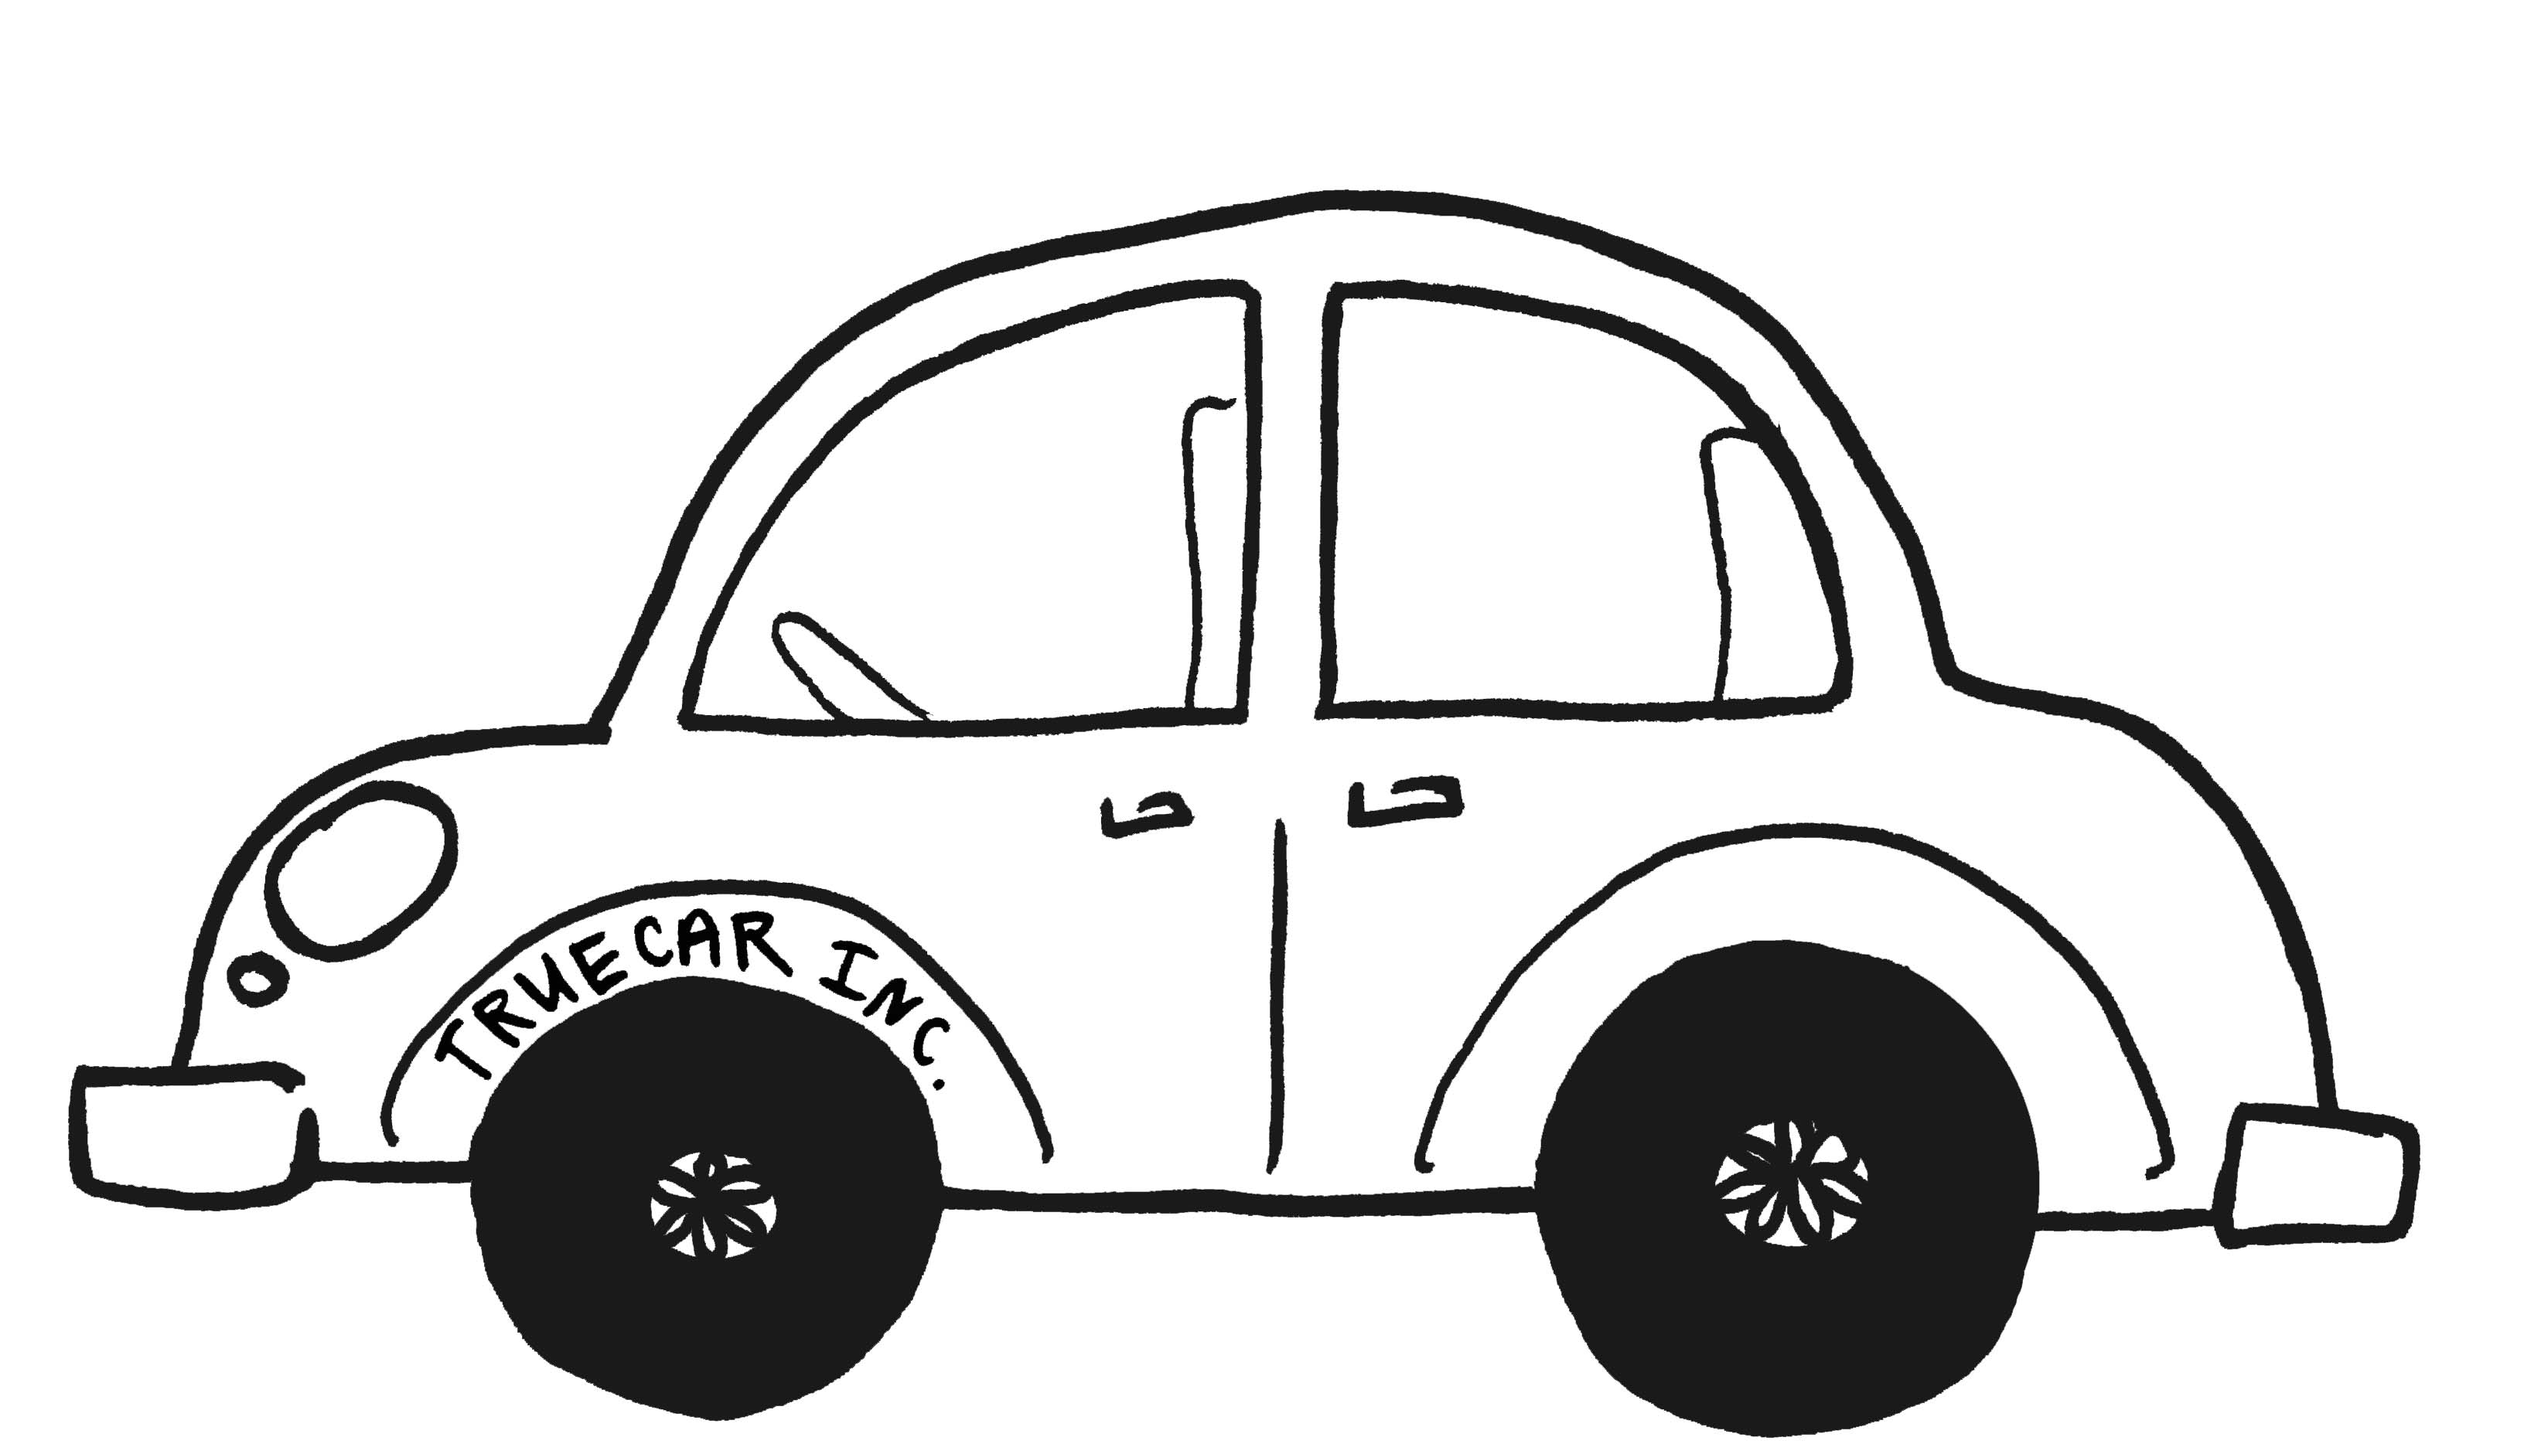
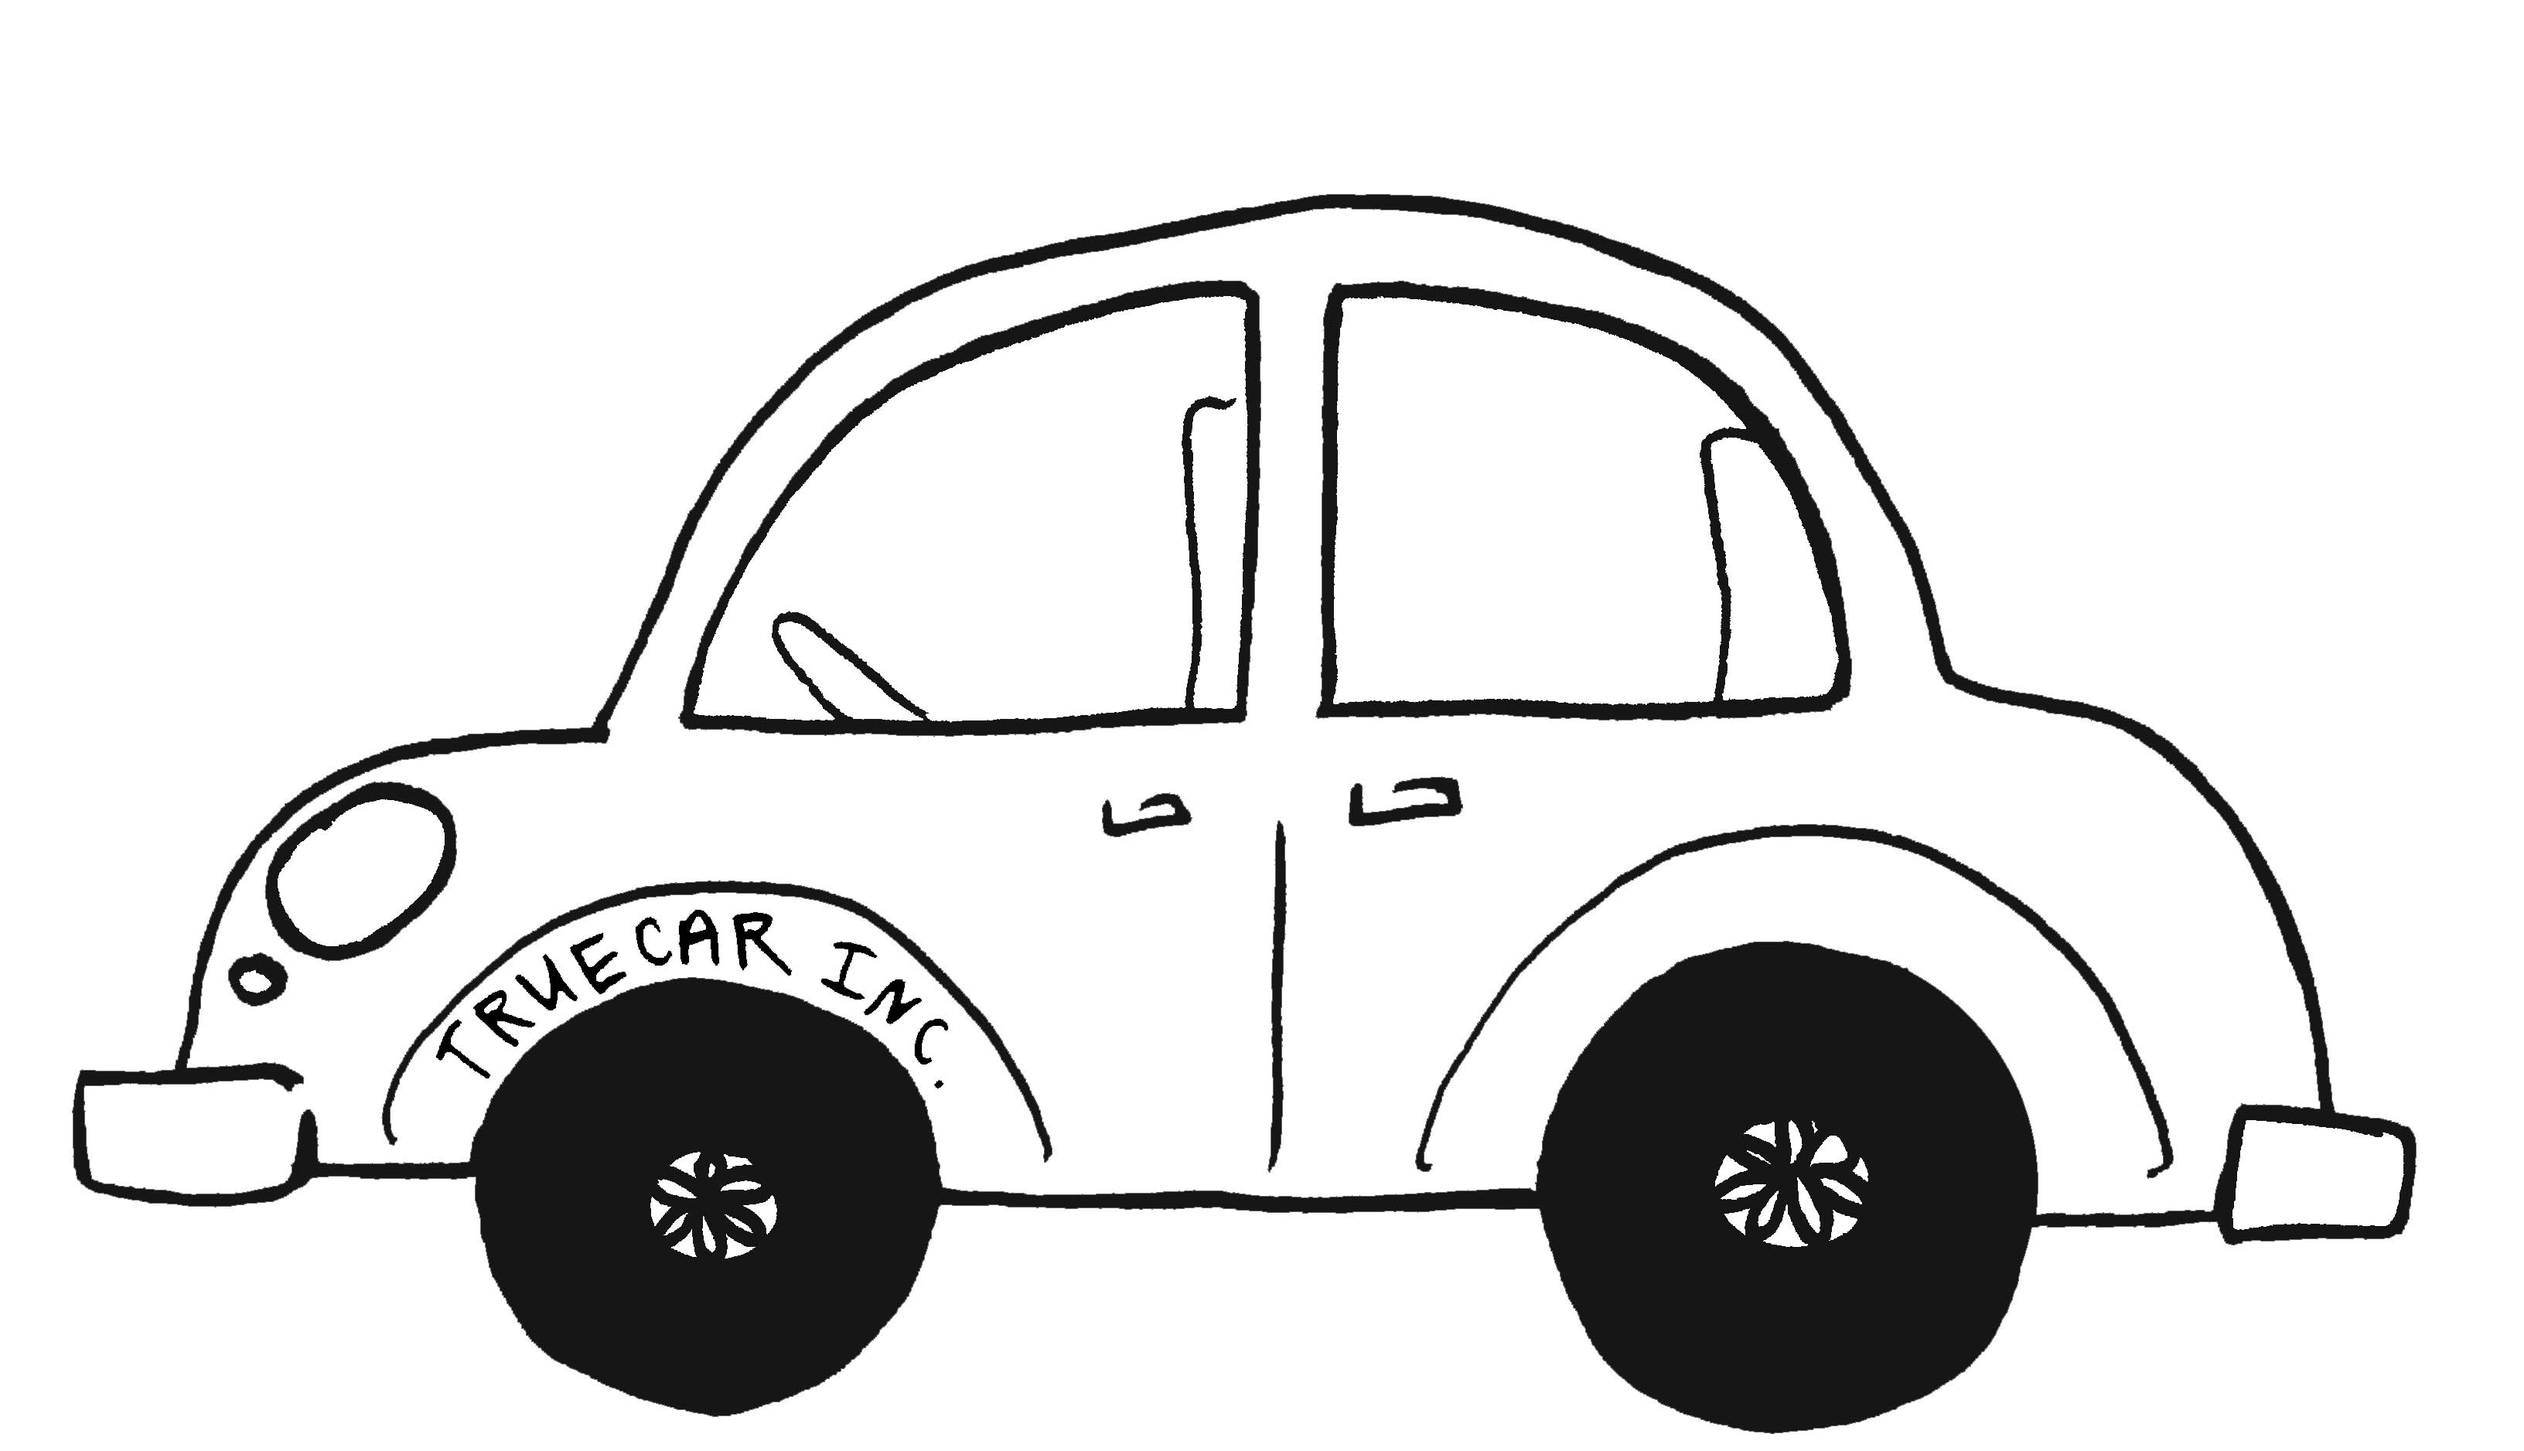
deleted more extras

diff --git a/truecar.html b/truecar.html
@@ -71,7 +71,7 @@
 							<p>Our team's web prototype won the intern award for "Best Overall Execution."</p>
 					</div>
 					<div class="col-md-6 col-sm-12 col-xs-12">
-						<img class="truecar img-responsive auto_margin" src="truecar_car2.jpg" alt="TrueCar Img" />
+						<img class="truecar img-responsive auto_margin" src="truecar_car.jpg" alt="TrueCar Img" />
 					</div>
 				</div>
 

diff --git a/index.html b/index.html
@@ -248,7 +248,7 @@
 					</p>
 				</div>
 				<div class="col-md-6 col-sm-6 col-xs-12">
-					<img class="truecar img-responsive auto_margin" src="truecar_car2.jpg" />
+					<img class="truecar img-responsive auto_margin" src="truecar_car.jpg" />
 				</div>
 			</div>
 			<br/><br/><br/><br/>

diff --git a/css/style.css b/css/style.css
@@ -442,7 +442,7 @@ a:hover {
 
 .projects {
 	background-color: white;
-	background-image: url("../watercolor2.png");
+	background-image: url("../watercolor.png");
 	background-size: 101% 100%;
 	background-repeat: no-repeat;
 }
